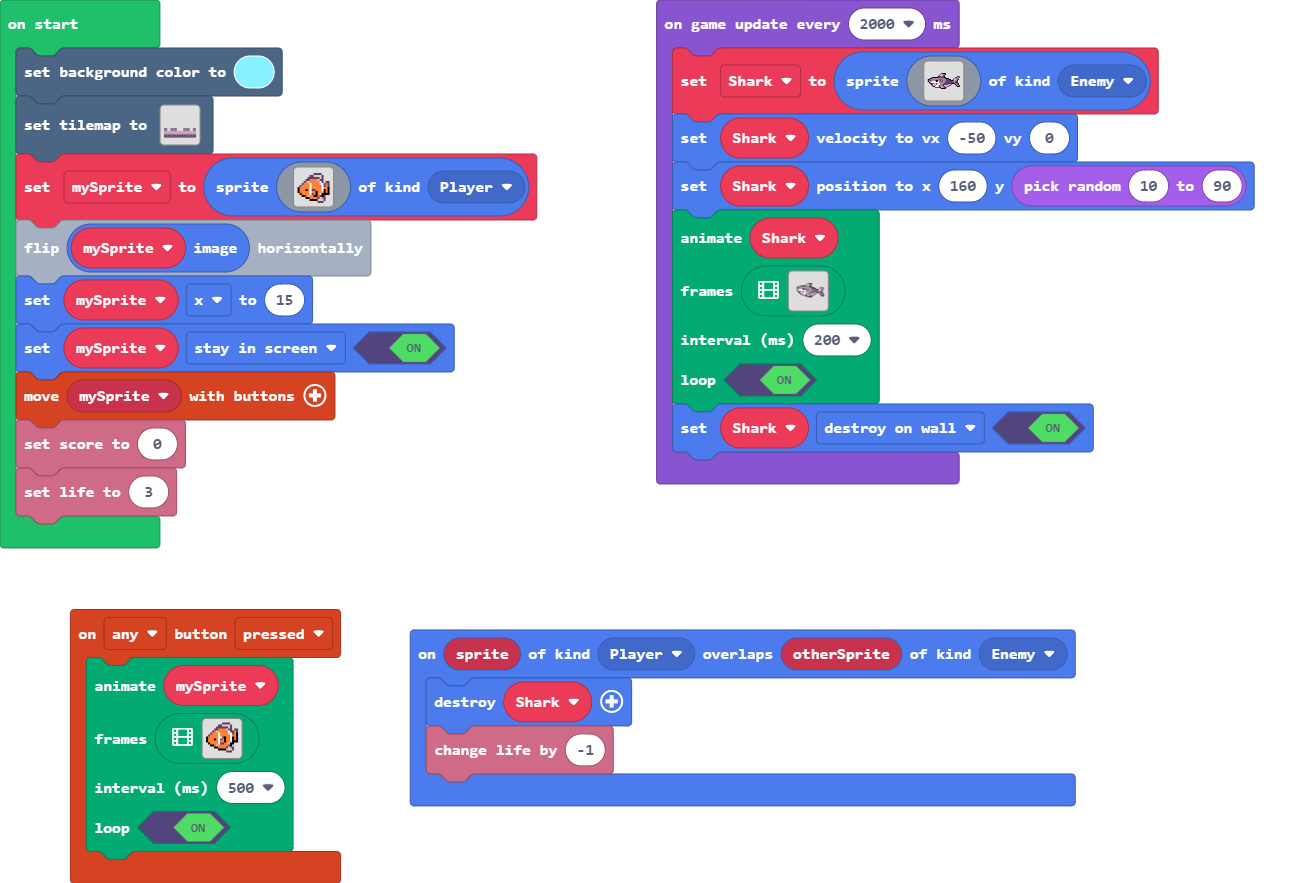
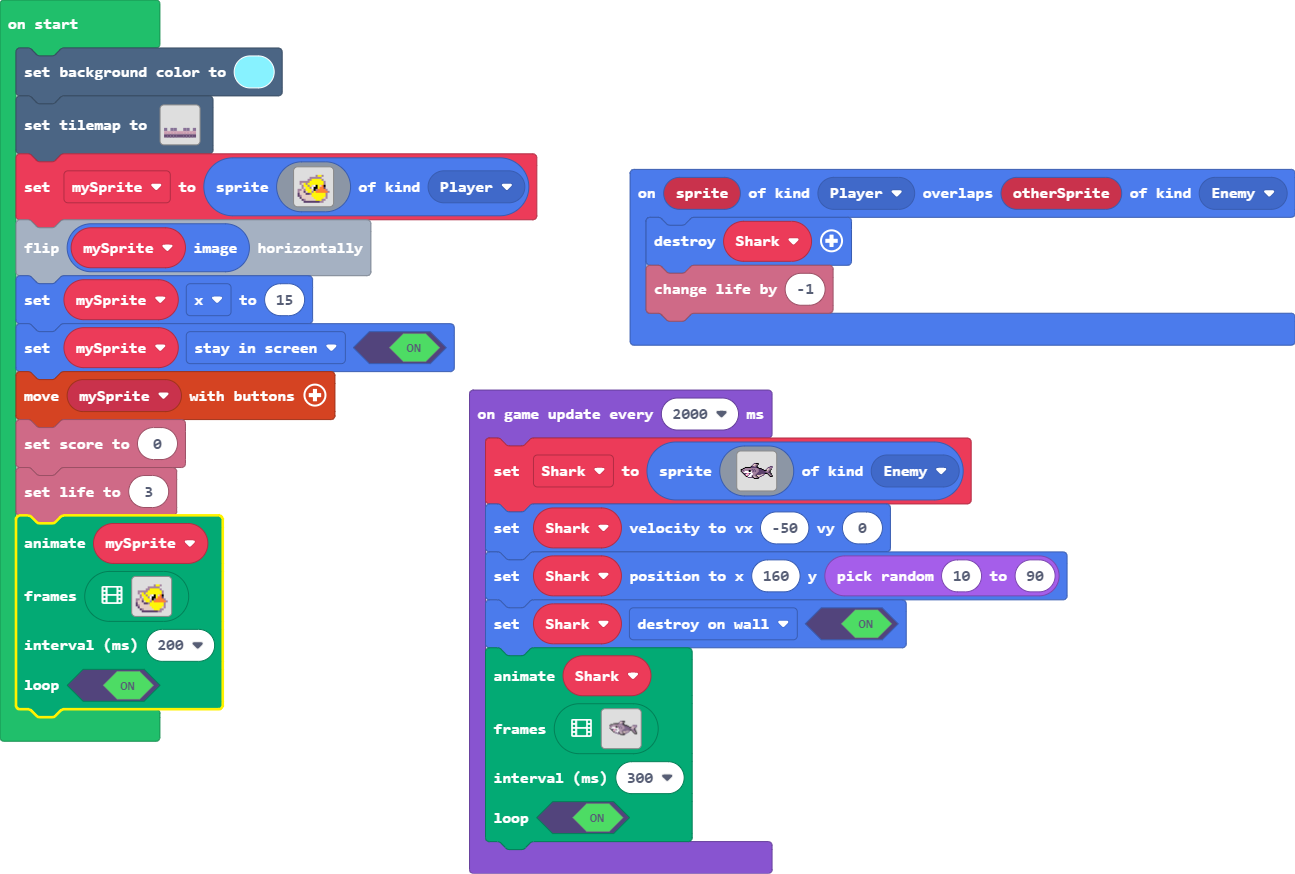
Update main.blocks, main.ts

diff --git a/main.ts b/main.ts
@@ -7,9 +7,6 @@ enum ActionKind {
 namespace SpriteKind {
     export const Ghost = SpriteKind.create()
 }
-controller.A.onEvent(ControllerButtonEvent.Pressed, function () {
-	
-})
 sprites.onOverlap(SpriteKind.Player, SpriteKind.Enemy, function (sprite, otherSprite) {
     Shark.destroy()
     info.changeLifeBy(-1)
@@ -28,21 +25,21 @@ tiles.setTilemap(tiles.createTilemap(hex`0a0008000000000000000000000000000000000
     `, [myTiles.transparency16,sprites.builtin.oceanSand11,sprites.builtin.oceanSand8,sprites.builtin.oceanSand2,sprites.builtin.coral5,sprites.builtin.coral1,sprites.builtin.coral4,sprites.builtin.coral0], TileScale.Sixteen))
 let mySprite = sprites.create(img`
     . . . . . . . . . . . . . . . . 
-    . . . . . . . . c c c c . . . . 
-    . . . . . . c c d d d d c . . . 
-    . . . . . c c c c c c d c . . . 
-    . . . . c c 4 4 4 4 d c c . . . 
-    . . . c 4 d 4 4 4 4 4 1 c . c c 
-    . . c 4 4 4 1 4 4 4 4 d 1 c 4 c 
-    . c 4 4 4 4 1 4 4 4 4 4 1 c 4 c 
-    f 4 4 4 4 4 1 4 4 4 4 4 1 4 4 f 
-    f 4 4 4 f 4 1 c c 4 4 4 1 f 4 f 
-    f 4 4 4 4 4 1 4 4 f 4 4 d f 4 f 
-    . f 4 4 4 4 1 c 4 f 4 d f f f f 
-    . . f f 4 d 4 4 f f 4 c f c . . 
-    . . . . f f 4 4 4 4 c d b c . . 
-    . . . . . . f f f f d d d c . . 
-    . . . . . . . . . . c c c . . . 
+    . . . . . . . . . . . . . . . . 
+    . . . . . . . . . b 5 5 b . . . 
+    . . . . . . b b b b b b . . . . 
+    . . . . . b b 5 5 5 5 5 b . . . 
+    . b b b b b 5 5 5 5 5 5 5 b . . 
+    . b d 5 b 5 5 5 5 5 5 5 5 b . . 
+    . . b 5 5 b 5 d 1 f 5 d 4 f . . 
+    . . b d 5 5 b 1 f f 5 4 4 c . . 
+    b b d b 5 5 5 d f b 4 4 4 4 b . 
+    b d d c d 5 5 b 5 4 4 4 4 4 4 b 
+    c d d d c c b 5 5 5 5 5 5 5 b . 
+    c b d d d d d 5 5 5 5 5 5 5 b . 
+    . c d d d d d d 5 5 5 5 5 d b . 
+    . . c b d d d d d 5 5 5 b b . . 
+    . . . c c c c c c c c b b . . . 
     `, SpriteKind.Player)
 mySprite.image.flipX()
 mySprite.x = 15
@@ -50,6 +47,131 @@ mySprite.setFlag(SpriteFlag.StayInScreen, true)
 controller.moveSprite(mySprite)
 info.setScore(0)
 info.setLife(3)
+animation.runImageAnimation(
+mySprite,
+[img`
+    . . . . . . . . . . . . . . . . 
+    . . . . . . . . . . . . . . . . 
+    . . . . . . . . . b 5 5 b . . . 
+    . . . . . . b b b b b b . . . . 
+    . . . . . b b 5 5 5 5 5 b . . . 
+    . b b b b b 5 5 5 5 5 5 5 b . . 
+    . b d 5 b 5 5 5 5 5 5 5 5 b . . 
+    . . b 5 5 b 5 d 1 f 5 d 4 f . . 
+    . . b d 5 5 b 1 f f 5 4 4 c . . 
+    b b d b 5 5 5 d f b 4 4 4 4 b . 
+    b d d c d 5 5 b 5 4 4 4 4 4 4 b 
+    c d d d c c b 5 5 5 5 5 5 5 b . 
+    c b d d d d d 5 5 5 5 5 5 5 b . 
+    . c d d d d d d 5 5 5 5 5 d b . 
+    . . c b d d d d d 5 5 5 b b . . 
+    . . . c c c c c c c c b b . . . 
+    `,img`
+    . . . . . . . . . . . . . . . . 
+    . . . . . . . . . . b 5 b . . . 
+    . . . . . . . . . b 5 b . . . . 
+    . . . . . . b b b b b b . . . . 
+    . . . . . b b 5 5 5 5 5 b . . . 
+    . b b b b b 5 5 5 5 5 5 5 b . . 
+    . b d 5 b 5 5 5 5 5 5 5 5 b . . 
+    . . b 5 5 b 5 d 1 f 5 d 4 f . . 
+    . . b d 5 5 b 1 f f 5 4 4 c . . 
+    b b d b 5 5 5 d f b 4 4 4 4 4 b 
+    b d d c d 5 5 b 5 4 4 4 4 4 b . 
+    c d d d c c b 5 5 5 5 5 5 5 b . 
+    c b d d d d d 5 5 5 5 5 5 5 b . 
+    . c d d d d d d 5 5 5 5 5 d b . 
+    . . c b d d d d d 5 5 5 b b . . 
+    . . . c c c c c c c c b b . . . 
+    `,img`
+    . . . . . . . . . . b 5 b . . . 
+    . . . . . . . . . b 5 b . . . . 
+    . . . . . . . . . b c . . . . . 
+    . . . . . . b b b b b b . . . . 
+    . . . . . b b 5 5 5 5 5 b . . . 
+    . . . . b b 5 d 1 f 5 5 d f . . 
+    . . . . b 5 5 1 f f 5 d 4 c . . 
+    . . . . b 5 5 d f b d d 4 4 . . 
+    b d d d b b d 5 5 5 4 4 4 4 4 b 
+    b b d 5 5 5 b 5 5 4 4 4 4 4 b . 
+    b d c 5 5 5 5 d 5 5 5 5 5 b . . 
+    c d d c d 5 5 b 5 5 5 5 5 5 b . 
+    c b d d c c b 5 5 5 5 5 5 5 b . 
+    . c d d d d d d 5 5 5 5 5 d b . 
+    . . c b d d d d d 5 5 5 b b . . 
+    . . . c c c c c c c c b b . . . 
+    `,img`
+    . . . . . . . . . . b 5 b . . . 
+    . . . . . . . . . b 5 b . . . . 
+    . . . . . . b b b b b b . . . . 
+    . . . . . b b 5 5 5 5 5 b . . . 
+    . . . . b b 5 d 1 f 5 d 4 c . . 
+    . . . . b 5 5 1 f f d d 4 4 4 b 
+    . . . . b 5 5 d f b 4 4 4 4 b . 
+    . . . b d 5 5 5 5 4 4 4 4 b . . 
+    . . b d d 5 5 5 5 5 5 5 5 b . . 
+    . b d d d d 5 5 5 5 5 5 5 5 b . 
+    b d d d b b b 5 5 5 5 5 5 5 b . 
+    c d d b 5 5 d c 5 5 5 5 5 5 b . 
+    c b b d 5 d c d 5 5 5 5 5 5 b . 
+    . b 5 5 b c d d 5 5 5 5 5 d b . 
+    b b c c c d d d d 5 5 5 b b . . 
+    . . . c c c c c c c c b b . . . 
+    `,img`
+    . . . . . . . . . . b 5 b . . . 
+    . . . . . . . . . b 5 b . . . . 
+    . . . . . . b b b b b b . . . . 
+    . . . . . b b 5 5 5 5 5 b . . . 
+    . . . . b b 5 d 1 f 5 d 4 c . . 
+    . . . . b 5 5 1 f f d d 4 4 4 b 
+    . . . . b 5 5 d f b 4 4 4 4 b . 
+    . . . b d 5 5 5 5 4 4 4 4 b . . 
+    . b b d d d 5 5 5 5 5 5 5 b . . 
+    b d d d b b b 5 5 5 5 5 5 5 b . 
+    c d d b 5 5 d c 5 5 5 5 5 5 b . 
+    c b b d 5 d c d 5 5 5 5 5 5 b . 
+    c b 5 5 b c d d 5 5 5 5 5 5 b . 
+    b b c c c d d d 5 5 5 5 5 d b . 
+    . . . . c c d d d 5 5 5 b b . . 
+    . . . . . . c c c c c b b . . . 
+    `,img`
+    . . . . . . . . . . b 5 b . . . 
+    . . . . . . . . . b 5 b . . . . 
+    . . . . . . b b b b b b . . . . 
+    . . . . . b b 5 5 5 5 5 b . . . 
+    . . . . b b 5 d 1 f 5 5 d f . . 
+    . . . . b 5 5 1 f f 5 d 4 c . . 
+    . . . . b 5 5 d f b d d 4 4 . . 
+    . b b b d 5 5 5 5 5 4 4 4 4 4 b 
+    b d d d b b d 5 5 4 4 4 4 4 b . 
+    b b d 5 5 5 b 5 5 5 5 5 5 b . . 
+    c d c 5 5 5 5 d 5 5 5 5 5 5 b . 
+    c b d c d 5 5 b 5 5 5 5 5 5 b . 
+    . c d d c c b d 5 5 5 5 5 d b . 
+    . . c b d d d d d 5 5 5 b b . . 
+    . . . c c c c c c c c b b . . . 
+    . . . . . . . . . . . . . . . . 
+    `,img`
+    . . . . . . . . . b 5 b . . . . 
+    . . . . . . . . . b 5 b . . . . 
+    . . . . . . b b b b b b . . . . 
+    . . . . . b b 5 5 5 5 5 b . . . 
+    . . . . b b 5 b c 5 5 d 4 c . . 
+    . b b b b 5 5 5 b f d d 4 4 4 b 
+    . b d 5 b 5 5 b c b 4 4 4 4 b . 
+    . . b 5 5 b 5 5 5 4 4 4 4 b . . 
+    . . b d 5 5 b 5 5 5 5 5 5 b . . 
+    . b d b 5 5 5 d 5 5 5 5 5 5 b . 
+    b d d c d 5 5 b 5 5 5 5 5 5 b . 
+    c d d d c c b 5 5 5 5 5 5 5 b . 
+    c b d d d d d 5 5 5 5 5 5 5 b . 
+    . c d d d d d d 5 5 5 5 5 d b . 
+    . . c b d d d d d 5 5 5 b b . . 
+    . . . c c c c c c c c b b . . . 
+    `],
+200,
+true
+)
 game.onUpdateInterval(2000, function () {
     Shark = sprites.create(img`
         .............ccfff..............
@@ -72,4 +194,44 @@ game.onUpdateInterval(2000, function () {
     Shark.setVelocity(-50, 0)
     Shark.setPosition(160, randint(10, 90))
     Shark.setFlag(SpriteFlag.DestroyOnWall, true)
+    animation.runImageAnimation(
+    Shark,
+    [img`
+        .................ccfff..............
+        ................cddbbf..............
+        ...............cddbbf...............
+        .........ffffffccbbcf...............
+        ......fffbbbbbbbbcccff..............
+        .....fbbbbbbbbbbbbbbbcfff......ccccc
+        .....bcbbbbbffbcbcbbbbcccff...cdbbbc
+        .....bbb1111ffbbcbcbbbcccccffcddbbc.
+        .....fb11111111bcbcbbbcccccccbdbbf..
+        ......fccc33c11bbbbbbcccccccccbbcf..
+        .......fc131cc11bbbbccccccccffbccf..
+        ........f33c1111bbbcccccbdbc..fbbcf.
+        .........ff1111cbbbfdddddcc....fbbf.
+        ...........ccc1fbdbbfddcc.......fbbf
+        ..............ccfbdbbfc..........fff
+        .................fffff..............
+        `,img`
+        ...........fffffff...ccfff..........
+        ..........fbbbbbbbffcbbbbf..........
+        ..........fbb111bbbbbffbf...........
+        ..........fb11111ffbbbbff...........
+        ..........f1cccc1ffbbbbbcff.........
+        ..........ffc1c1c1bbcbcbcccf........
+        ...........fcc3331bbbcbcbcccf..ccccc
+        ............c333c1bbbcbcbccccfcddbbc
+        ............c333c1bbbbbbbcccccddbcc.
+        ............c333c11bbbbbccccccbbcc..
+        ...........cc331c11bbbbccccccfbccf..
+        ...........cc13c11cbbbcccccbbcfccf..
+        ...........c111111cbbbfdddddc.fbbcf.
+        ............cc1111fbdbbfdddc...fbbf.
+        ..............cccfffbdbbfcc.....fbbf
+        ....................fffff........fff
+        `],
+    300,
+    true
+    )
 })
